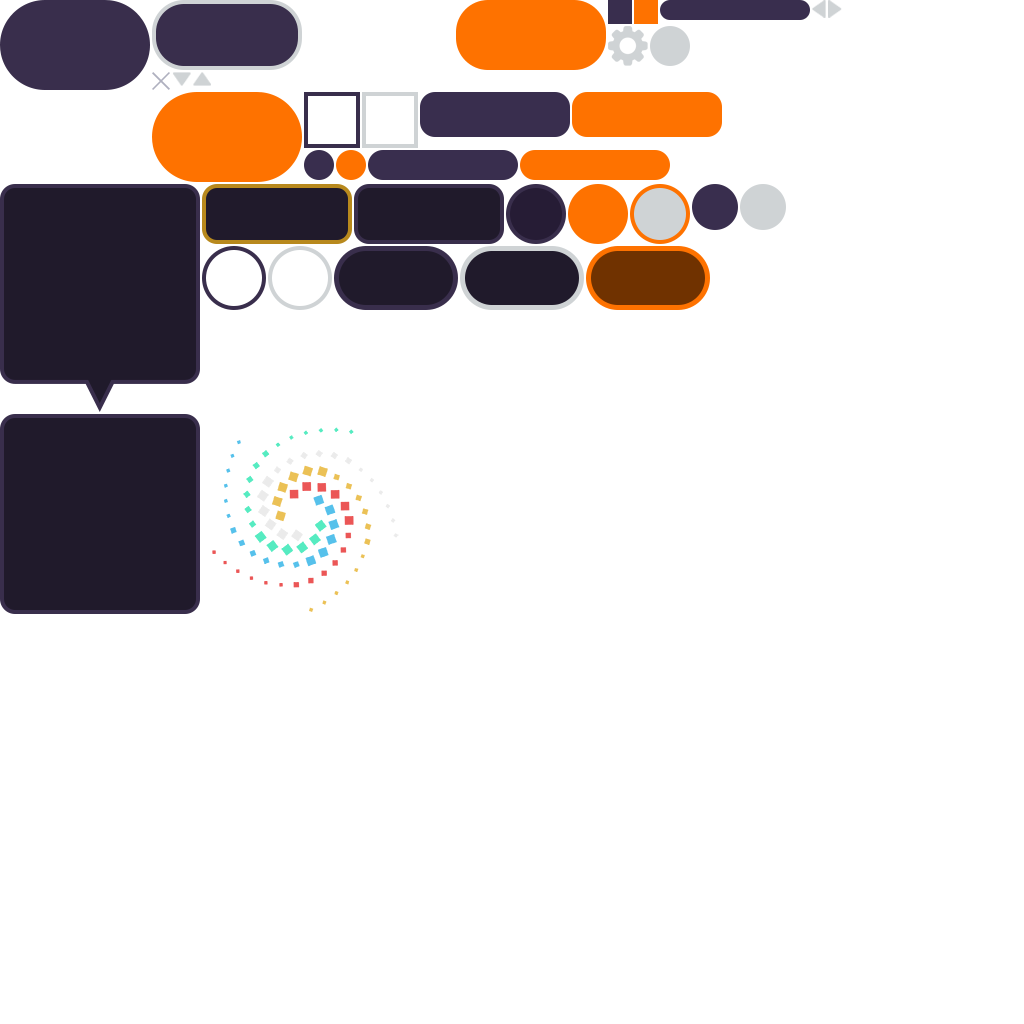
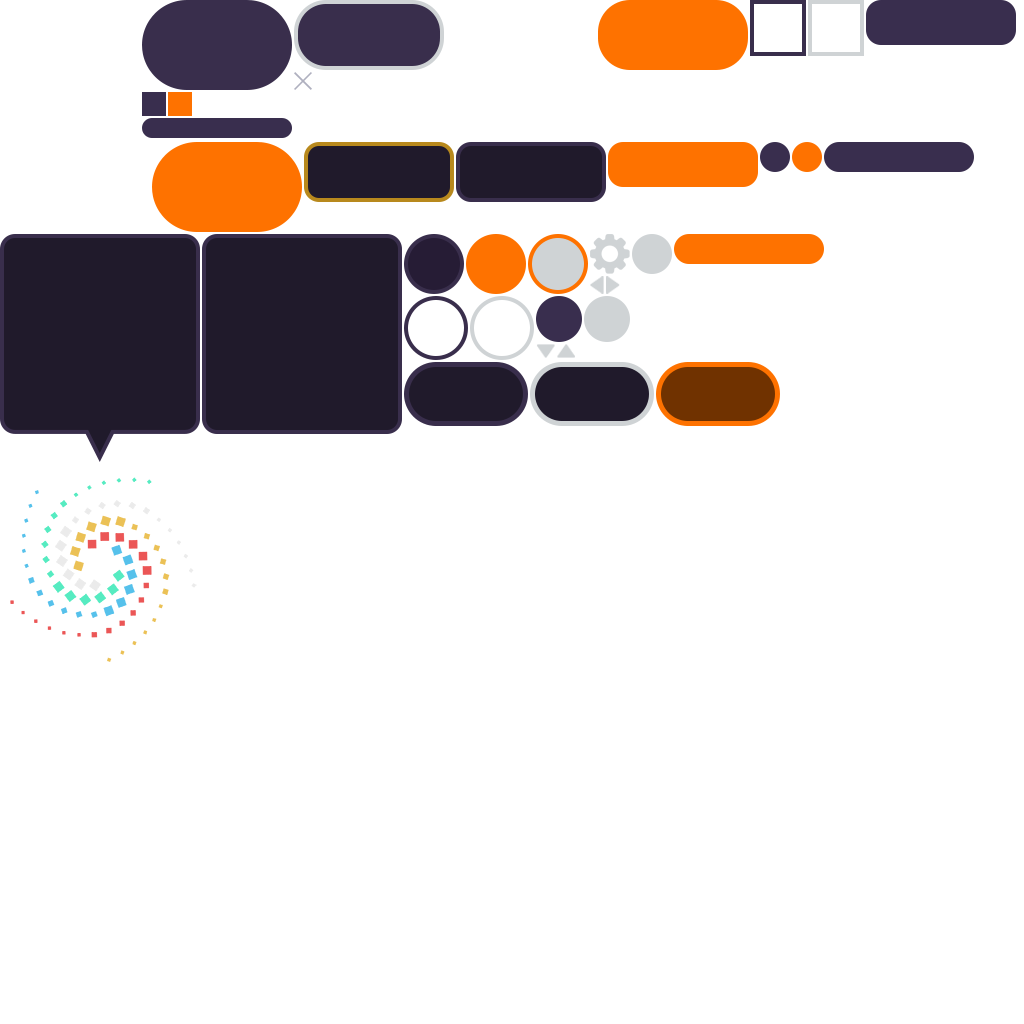
Editor: Add glow border

Changed region(s): [[0.0, 0.0, 1.0, 0.625]]

diff --git a/Projects/Editor/Source/Editor/SpaceController/CGUIDesignController.cpp b/Projects/Editor/Source/Editor/SpaceController/CGUIDesignController.cpp
@@ -284,6 +284,25 @@ namespace Skylicht
 				text->setTextAlign(EGUIHorizontalAlign::Center, EGUIVerticalAlign::Middle);
 				text->setFontSource("SampleGUI/Fonts/Roboto-Bold.font");
 			}
+			else if (command == L"UI Glow Border")
+			{
+				r.LowerRightCorner.X = 200.0f;
+				r.LowerRightCorner.Y = 200.0f;
+
+				nameHint = L"Border";
+
+				CGUIFitSprite* bg = parentNode->getCanvas()->createFitSprite(parentNode, r, NULL);
+				bg->setName(L"Background");
+				bg->setFrameSource(
+					"SampleGUI/SampleGUI.spritedata",
+					"border_outglow",
+					"SampleGUI/!Sprites/border_outglow.png");
+				bg->setDock(EGUIDock::NoDock);
+				bg->setAnchor(CGUIFitSprite::AnchorAll, 30.0, 30.0f, 30.0f, 30.0f);
+				bg->setMaterialSource("BuiltIn/Textures/GlowBorder.mat");
+
+				newNode = bg;
+			}
 			else if (command == L"UI Icon Button")
 			{
 				r.LowerRightCorner.X = 64.0f;

diff --git a/Projects/Editor/Source/SkylichtEditor.cpp b/Projects/Editor/Source/SkylichtEditor.cpp
@@ -31,6 +31,8 @@
 #include "PhysicsEngine/CPhysicsEngine.h"
 #endif
 
+#include "CrashHandler/CCrashHandler.h"
+
 void installApplication(const std::vector<std::string>& argv)
 {
 	SkylichtEditor* app = new SkylichtEditor();
@@ -100,6 +102,10 @@ void SkylichtEditor::onInitApp()
 	app->showFPS(false);
 	app->enableRunWhenPause(true);
 	app->showDebugConsole();
+
+#ifdef WIN32
+	CCrashHandler::getInstance()->resolveDumpFiles();
+#endif
 }
 
 void SkylichtEditor::onUpdate()

diff --git a/Projects/EditorGUI/GUI/Controls/CColorHSVRGBPicker.cpp b/Projects/EditorGUI/GUI/Controls/CColorHSVRGBPicker.cpp
@@ -535,6 +535,12 @@ namespace Skylicht
 
 				if (params.size() == 4)
 				{
+					if (params[0].empty() ||
+						params[1].empty() ||
+						params[2].empty() ||
+						params[3].empty())
+						return;
+
 					m_color.R = (unsigned char)std::stoi(params[0]);
 					m_color.G = (unsigned char)std::stoi(params[1]);
 					m_color.B = (unsigned char)std::stoi(params[2]);

diff --git a/Projects/Editor/Source/Editor/SpaceController/CContextMenuGUIElement.cpp b/Projects/Editor/Source/Editor/SpaceController/CContextMenuGUIElement.cpp
@@ -66,6 +66,7 @@ namespace Skylicht
 			addMenu->addSeparator();
 			addMenu->addItem(L"UI Button");
 			addMenu->addItem(L"UI Button (Shiny)");
+			addMenu->addItem(L"UI Glow Border");
 			addMenu->addItem(L"UI Icon Button");
 			addMenu->addItem(L"UI Slider");
 			addMenu->addItem(L"UI Input");
